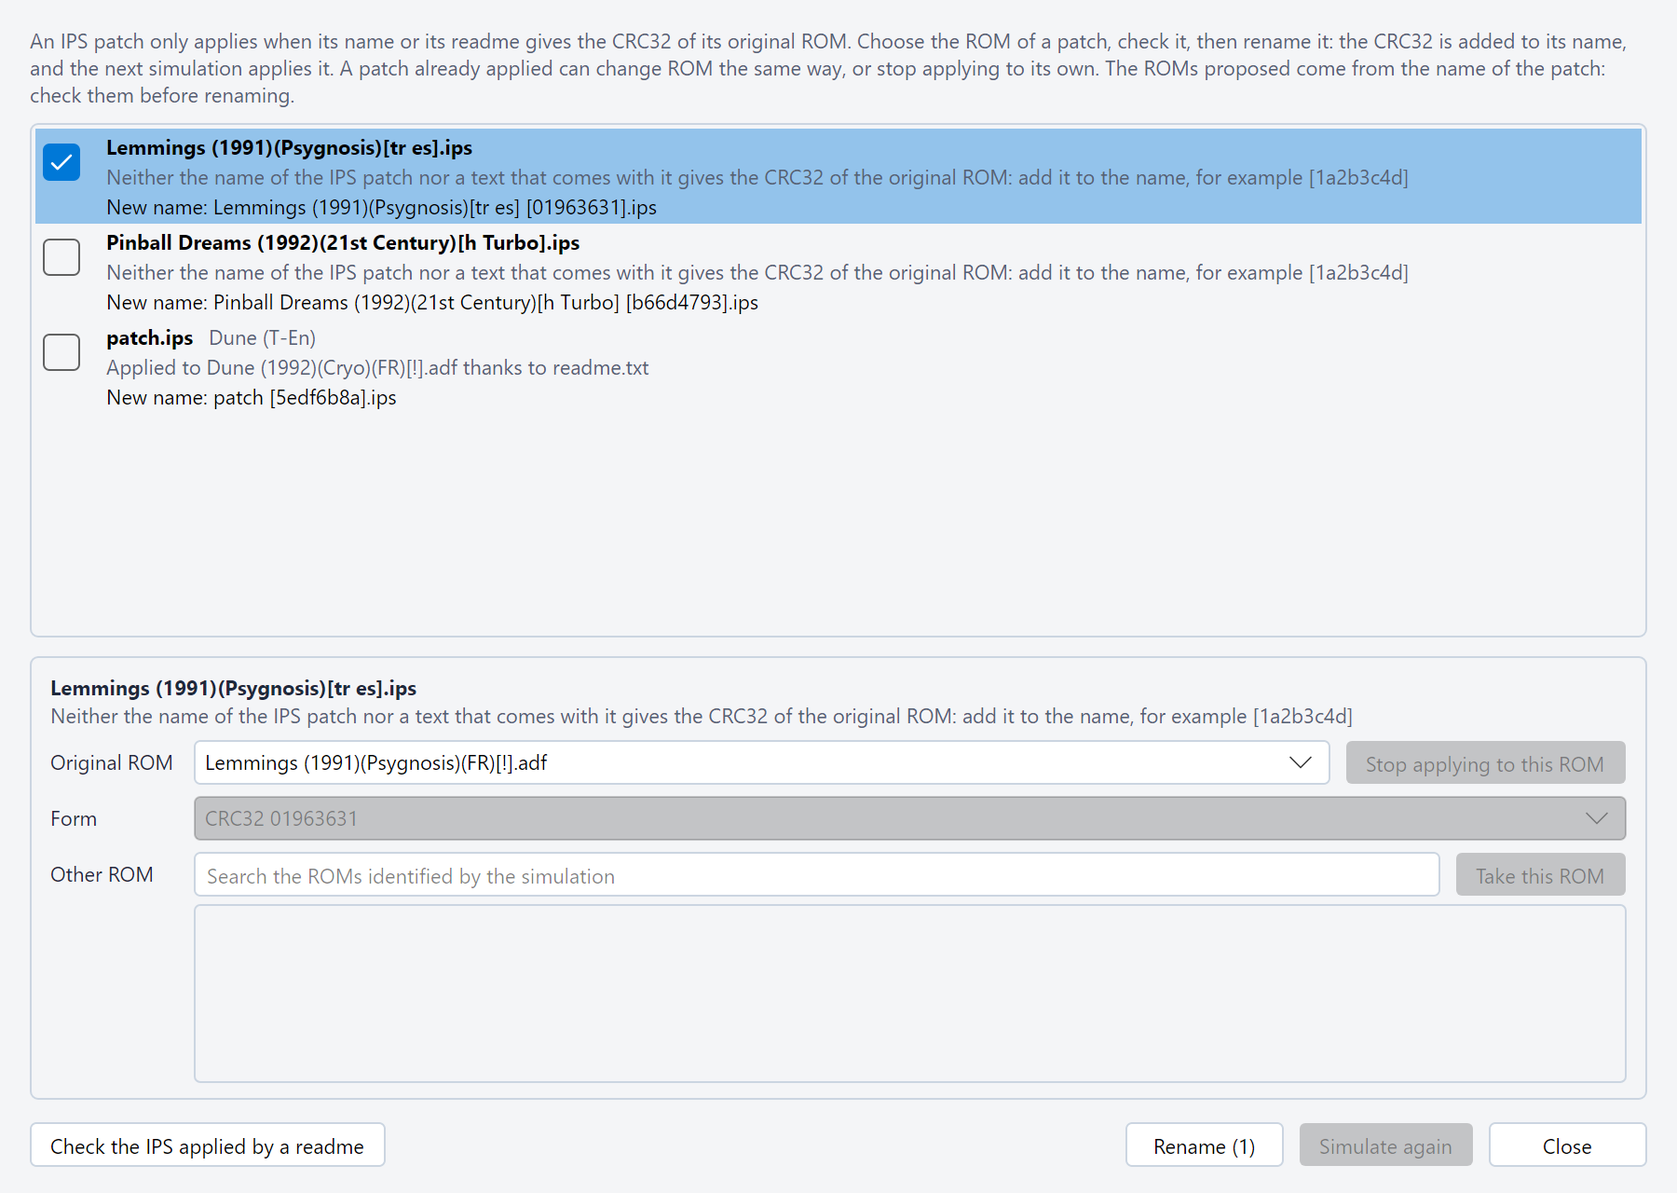
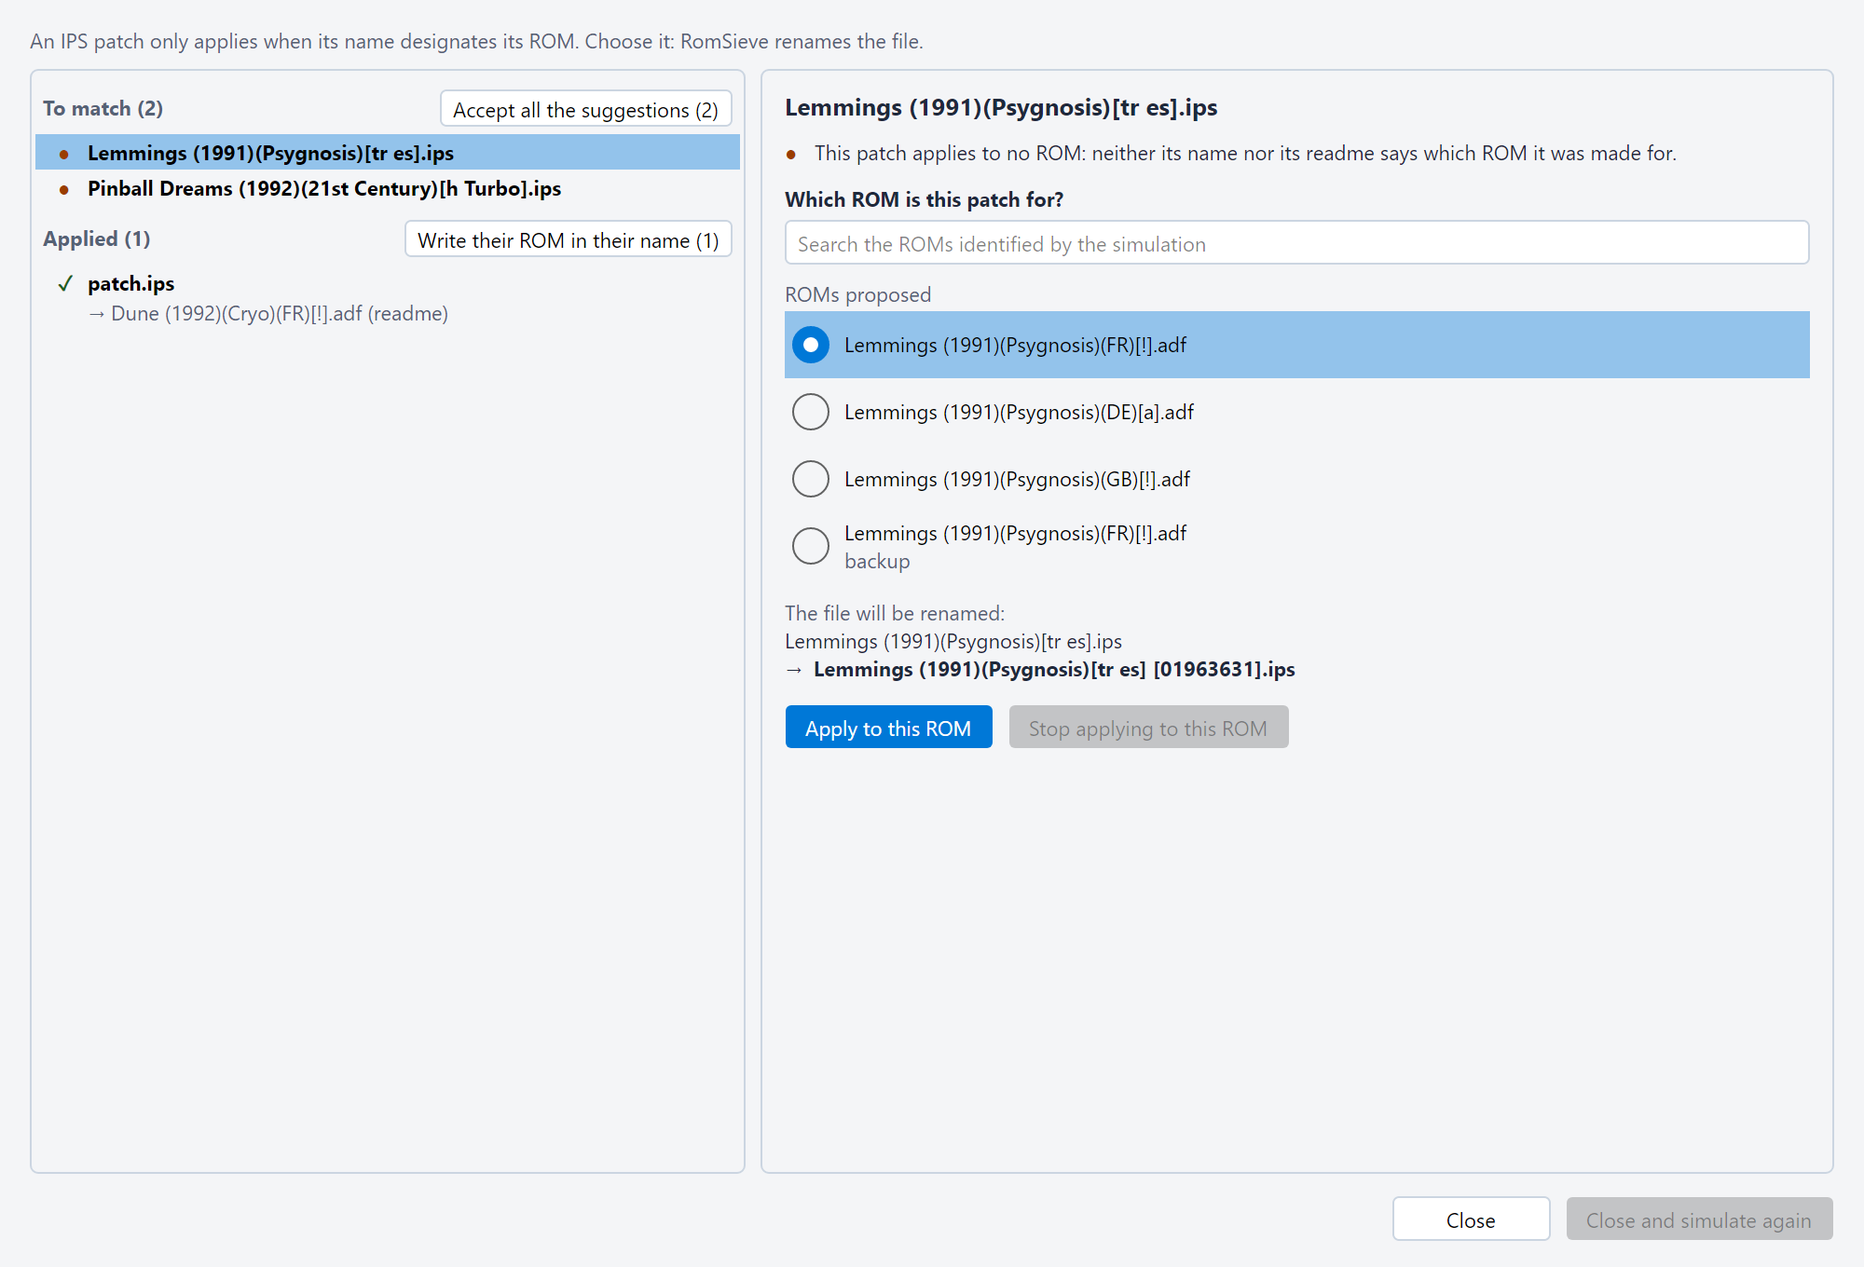
Describe the new patches window in the guide, with its groups, its direct actions and its summaries, and capture it again

diff --git a/docs/fr/patches.md b/docs/fr/patches.md
@@ -170,55 +170,68 @@ Sans DAT, les patchs ne sont pas lus : le journal le dit.
 
 La plupart des IPS téléchargés n'ont de CRC32 ni dans leur nom ni dans leur readme. Plutôt que de le chercher et de
 renommer le fichier à la main, ouvrez la fenêtre **Patchs** : après une simulation, cliquez sur « *n* patchs non
-appliqués » dans le bandeau des résultats (ou sur « *n* patchs à nommer », quand aucun patch n'est resté non appliqué
-mais que des IPS l'ont été grâce à leur readme).
+appliqués » dans le bandeau des résultats (ou sur « *n* patchs à nommer » ou « Voir les patchs », quand aucun patch n'est
+resté non appliqué).
 
 ![La fenêtre Patchs](../images/fr/patches_window.png)
 
-La fenêtre liste les patchs non appliqués, puis les IPS appliqués grâce à leur readme, puis ceux appliqués d'après leur
-nom (voir [Changer la ROM du patch](#changer-la-rom-du-patch)). Pour un patch sélectionné :
+À gauche, les patchs sont groupés par état :
 
-* **ROM d'origine** propose les ROMs identifiées dont le nom ou le titre commence le nom du patch, ou celui de son
-  archive, ou celui de son dossier quand ce dossier ne contient que lui (`Traduction CT/patch.ips`). Les noms génériques
-  (`patch`, `fix`, `v1.1`…) ne comptent pas. La ROM entière passe avant le titre seul, puis la ROM que le tri écrit. Pour
-  un patch dont le nom ou le readme désigne plusieurs ROMs, ce sont ces ROMs.
-* **Autre ROM** cherche parmi toutes les ROMs identifiées par la simulation, quand aucune ROM proposée n'est la bonne : un
-  titre traduit (`Super Mario Frères.ips` pour `Super Mario Bros.`) ou abrégé n'en propose aucune. **Prendre cette ROM**
-  (ou un double clic) la choisit.
-* **Forme** choisit, pour une ROM à en-tête copieur, le CRC32 avec ou sans l'en-tête. Un IPS ne dit pas pour laquelle il
-  a été fait : son readme le dit en général. La liste est grisée quand la ROM n'a qu'une forme.
+* **À associer** (●) : les IPS qui ne s'appliquent à aucune ROM, et qu'un nom réparerait ;
+* **Appliqués** (✓) : les IPS appliqués d'après leur nom, ou grâce à leur readme (mention « readme »), chacun suivi de sa
+  ROM (« → *ROM* ») ;
+* **Non réparables** (✗) : un UPS ou un BPS dont la ROM manque, un patch illisible… Le détail en donne la raison.
 
-Une ROM proposée n'est jamais prise d'office : cochez chaque patch à renommer, vérifiez le **Nouveau nom** affiché, puis
-cliquez sur **Renommer**. Le CRC32 s'ajoute avant l'extension (`Jeu (T-Fr).ips` devient `Jeu (T-Fr) [47e70e08].ips`),
-la ligne dit ce qu'il en est, et le journal le note. **Relancer la simulation** ferme la fenêtre et relance la simulation,
-qui applique les patchs renommés. Le CRC32 ajouté n'apparaît pas dans le nom de la version patchée (voir
+À droite, le détail du patch sélectionné dit en clair où il en est, puis demande **Pour quelle ROM est ce patch ?** :
+
+* **ROMs proposées** : les ROMs identifiées dont le nom ou le titre commence le nom du patch, ou celui de son archive, ou
+  celui de son dossier quand ce dossier ne contient que lui (`Traduction CT/patch.ips`). Les noms génériques (`patch`,
+  `fix`, `v1.1`…) ne comptent pas. La ROM entière passe avant le titre seul, puis la ROM que le tri écrit. Pour un patch
+  dont le nom ou le readme désigne plusieurs ROMs, ce sont ces ROMs ; pour un patch appliqué, la ROM à laquelle il l'est.
+  Sous chaque ROM, son dossier dans la source distingue deux fichiers du même nom. La première est choisie, mais jamais
+  appliquée sans votre clic.
+* La **recherche**, au-dessus, cherche parmi toutes les ROMs identifiées par la simulation, quand aucune ROM proposée
+  n'est la bonne : un titre traduit (`Super Mario Frères.ips` pour `Super Mario Bros.`) ou abrégé n'en propose aucune.
+  Tous les mots, dans n'importe quel ordre. Une ROM trouvée (clic, ou Entrée pour la première) rejoint les ROMs
+  proposées et devient le choix. Ctrl+F mène à la recherche.
+* **Forme** n'apparaît que pour une ROM à en-tête copieur (NES, Super Nintendo, Lynx) : le CRC32 avec ou sans l'en-tête.
+  Un IPS ne dit pas pour laquelle il a été fait : son readme le dit en général.
+
+**Le fichier sera renommé** montre le nom avant et après. **Appliquer à cette ROM** renomme alors le patch : le CRC32
+s'ajoute avant l'extension (`Jeu (T-Fr).ips` devient `Jeu (T-Fr) [47e70e08].ips`), le patch passe dans **Appliqués**,
+et le journal le note. **Annuler** lui rend son ancien nom ; après plusieurs renommages, chacun s'annule à son tour,
+tant que la fenêtre est ouverte. La touche Entrée ne renomme jamais rien.
+
+Le pied compte les patchs modifiés. **Fermer et relancer la simulation** ferme la fenêtre et relance la simulation, qui
+applique les patchs renommés. Le CRC32 ajouté n'apparaît pas dans le nom de la version patchée (voir
 [Choix du nom](#choix-du-nom)).
 
-* **Cocher les IPS appliqués par un readme** coche les IPS que la simulation a déjà appliqués grâce à leur readme :
-  écrire leur CRC32 dans leur nom les fait aussi appliquer par d'autres outils, comme igir.
+* **Accepter toutes les suggestions (*n*)**, sur le titre du groupe **À associer**, montre la ROM choisie pour chaque
+  patch : rien n'y est coché d'avance. Cochez ceux à renommer (ou **Tout cocher**), puis **Appliquer (*n*)** ;
+  **Retour** revient au détail sans rien renommer.
+* **Écrire leur ROM dans leur nom (*n*)**, sur le titre du groupe **Appliqués**, fait de même pour les IPS appliqués
+  grâce à leur readme : écrire leur CRC32 dans leur nom les fait aussi appliquer par d'autres outils, comme igir. Pour un
+  seul de ces patchs, le bouton du détail s'appelle **Écrire la ROM dans le nom**.
 * Un patch rangé dans une **archive** n'est jamais renommé, puisqu'une archive n'est jamais modifiée : la fenêtre donne le
   CRC32 de la ROM choisie, et il faut extraire le patch pour écrire ce CRC32 dans son nom.
-* Un UPS, un BPS, ou un IPS non appliqué dont le nom donne déjà un CRC32 ne se choisit pas : un CRC32 dans son nom ne le
-  réparerait pas.
-* Rien n'est écrasé : un nom déjà pris laisse le patch tel quel, et sa ligne le dit. Le renommage n'est pas inscrit au
-  journal des tris, et **Annuler le dernier tri** ne le défait pas : il se défait à la main, ou dans la fenêtre (voir
-  [Changer la ROM du patch](#changer-la-rom-du-patch)).
+* Rien n'est écrasé : un nom déjà pris laisse le patch tel quel, et le détail le dit. Le renommage n'est pas inscrit au
+  journal des tris, et **Annuler le dernier tri** ne le défait pas : il se défait par **Annuler** dans la fenêtre, ou à
+  la main.
 
 ## Changer la ROM du patch
 
 Un IPS dont le nom donne le CRC32 d'une ROM s'applique à cette ROM à chaque simulation : RomSieve ne garde aucun choix
 en mémoire, il relit le nom du patch. Si la version patchée ne fonctionne pas, parce que le patch était fait pour une
-autre ROM, la fenêtre **Patchs** liste aussi, après les autres, les IPS appliqués d'après leur nom (ceux du disque : un
-patch rangé dans une archive ne se renomme pas). Elle s'ouvre par le lien « Voir les patchs » du bandeau, quand aucun
-patch n'est resté non appliqué, ou par **Changer la ROM de ce patch…** dans le menu contextuel d'une version patchée du
-tableau, qui sélectionne son patch.
+autre ROM, retrouvez-le dans le groupe **Appliqués** de la fenêtre **Patchs** (seuls ceux du disque : un patch rangé dans
+une archive ne se renomme pas). Elle s'ouvre aussi par **Changer la ROM de ce patch…** dans le menu contextuel d'une
+version patchée du tableau, qui sélectionne son patch.
 
-* Pour l'appliquer à **une autre ROM**, choisissez-la comme pour un patch non appliqué (**Autre ROM**, puis **Prendre
-  cette ROM**), cochez le patch et cliquez sur **Renommer** : le CRC32 de la nouvelle ROM remplace celui du nom
-  (`Jeu (T-Fr) [47e70e08].ips` devient `Jeu (T-Fr) [1a2b3c4d].ips`).
+* Pour l'appliquer à **une autre ROM**, choisissez-la (dans la recherche si elle n'est pas proposée), puis cliquez sur
+  **Appliquer à cette ROM** : le CRC32 de la nouvelle ROM remplace celui du nom (`Jeu (T-Fr) [47e70e08].ips` devient
+  `Jeu (T-Fr) [1a2b3c4d].ips`). Tant que sa ROM actuelle est choisie, le bouton est grisé.
 * Pour qu'il **ne s'applique plus**, cliquez sur **Ne plus appliquer à cette ROM** : RomSieve retire du nom du patch ce
-  qui désigne sa ROM (`Jeu (T-Fr) [47e70e08].ips` redevient `Jeu (T-Fr).ips`). La simulation suivante ne l'applique
-  plus, et vous le propose de nouveau parmi les patchs non appliqués, avec les ROMs que suggère son nom.
+  qui désigne sa ROM (`Jeu (T-Fr) [47e70e08].ips` redevient `Jeu (T-Fr).ips`), et le patch revient dans **À associer**.
+  La simulation suivante ne l'applique plus, et vous le propose de nouveau, avec les ROMs que suggère son nom.
 
 Un IPS appliqué grâce à son readme se change de ROM de la même façon (le CRC32 écrit dans son nom l'emporte sur son
 readme), mais ne peut pas cesser de s'appliquer : son readme désignerait de nouveau sa ROM. La version patchée qu'un tri

diff --git a/docs/en/patches.md b/docs/en/patches.md
@@ -167,53 +167,67 @@ Without a DAT, the patches are not read: the log says so.
 
 Most downloaded IPS have a CRC32 neither in their name nor in their readme. Rather than looking it up and renaming the
 file by hand, open the **Patches** window: after a simulation, click "*n* patches not applied" in the banner of the
-results (or "*n* patches to name", when no patch was left out but some IPS were applied thanks to their readme).
+results (or "*n* patches to name" or "View the patches", when no patch was left out).
 
 ![The Patches window](../images/patches_window.png)
 
-The window lists the patches not applied, then the IPS applied thanks to their readme, then those applied from their
-name (see [Changing the ROM of a patch](#changing-the-rom-of-a-patch)). For the patch selected:
+On the left, the patches are grouped by state:
 
-* **Original ROM** proposes the identified ROMs whose name or title starts the name of the patch, or that of its
-  archive, or that of its folder when the folder holds it alone (`CT Translation/patch.ips`). Generic names (`patch`,
-  `fix`, `v1.1`…) do not count. The whole name comes before the title alone, then the ROM the sort writes. For a patch
-  whose name or readme designates several ROMs, those ROMs.
-* **Other ROM** searches all the ROMs identified by the simulation, when no ROM proposed is the right one: a translated
-  (`Super Mario Frères.ips` for `Super Mario Bros.`) or shortened title proposes none. **Take this ROM** (or a double
-  click) chooses it.
-* **Form** chooses, for a ROM with a copier header, the CRC32 with or without the header. An IPS does not tell which one
-  it was made for: its readme usually does. The list is greyed out when the ROM has a single form.
+* **To match** (●): the IPS that apply to no ROM, and that a name would fix;
+* **Applied** (✓): the IPS applied from their name, or thanks to their readme (marked "readme"), each followed by its ROM
+  ("→ *ROM*");
+* **Cannot be fixed** (✗): a UPS or a BPS whose ROM is missing, a patch that cannot be read… The detail gives the reason.
 
-A ROM proposed is never taken on its own: check each patch to rename, look at the **New name** shown, then click
-**Rename**. The CRC32 is added before the extension (`Game (T-Fr).ips` becomes `Game (T-Fr) [47e70e08].ips`), the row
-says what became of it, and the log records it. **Simulate again** closes the window and runs the simulation again,
+On the right, the detail of the patch selected says in plain words where it stands, then asks **Which ROM is this patch
+for?**:
+
+* **ROMs proposed**: the identified ROMs whose name or title starts the name of the patch, or that of its archive, or
+  that of its folder when the folder holds it alone (`CT Translation/patch.ips`). Generic names (`patch`, `fix`, `v1.1`…)
+  do not count. The whole name comes before the title alone, then the ROM the sort writes. For a patch whose name or
+  readme designates several ROMs, those ROMs; for a patch applied, the ROM it is applied to. Under each ROM, its folder
+  in the source tells two files of the same name apart. The first one is chosen, but never applied without your click.
+* The **search**, above, looks among all the ROMs identified by the simulation, when no ROM proposed is the right one: a
+  translated (`Super Mario Frères.ips` for `Super Mario Bros.`) or shortened title proposes none. All the words, in any
+  order. A ROM found (a click, or Enter for the first one) joins the ROMs proposed and becomes the choice. Ctrl+F goes
+  to the search.
+* **Form** only shows for a ROM with a copier header (NES, Super Nintendo, Lynx): the CRC32 with or without the header.
+  An IPS does not tell which one it was made for: its readme usually does.
+
+**The file will be renamed** shows the name before and after. **Apply to this ROM** then renames the patch: the CRC32
+is added before the extension (`Game (T-Fr).ips` becomes `Game (T-Fr) [47e70e08].ips`), the patch moves to
+**Applied**, and the log records it. **Undo** gives it back its old name; after several renamings, each is undone in
+turn, as long as the window is open. The Enter key never renames anything.
+
+The footer counts the patches modified. **Close and simulate again** closes the window and runs the simulation again,
 which applies the patches renamed. The CRC32 added does not appear in the name of the patched version (see
 [Name of the patched version](#name-of-the-patched-version)).
 
-* **Check the IPS applied by a readme** checks the IPS the simulation already applied thanks to their readme: writing
-  their CRC32 in their name makes other tools, such as igir, apply them too.
+* **Accept all the suggestions (*n*)**, on the title of the **To match** group, shows the ROM chosen for each patch:
+  nothing is checked beforehand. Check those to rename (or **Check all**), then **Apply (*n*)**; **Back** returns to the
+  detail without renaming anything.
+* **Write their ROM in their name (*n*)**, on the title of the **Applied** group, does the same for the IPS applied
+  thanks to their readme: writing their CRC32 in their name makes other tools, such as igir, apply them too. For a
+  single one of these patches, the button of the detail is called **Write the ROM in the name**.
 * A patch stored in an **archive** is never renamed, since an archive is never modified: the window gives the CRC32 of
   the ROM chosen, and the patch has to be extracted to write that CRC32 in its name.
-* A UPS, a BPS, or an IPS not applied whose name already gives a CRC32 cannot be chosen for: a CRC32 in its name would
-  not fix it.
-* Nothing is overwritten: a name already taken leaves the patch as it was, and its row says so. Renaming is not recorded
-  in the journal of the sorts, and **Undo Last Sort** does not undo it: it is undone by hand, or in the window (see
-  [Changing the ROM of a patch](#changing-the-rom-of-a-patch)).
+* Nothing is overwritten: a name already taken leaves the patch as it was, and the detail says so. Renaming is not
+  recorded in the journal of the sorts, and **Undo Last Sort** does not undo it: it is undone by **Undo** in the window,
+  or by hand.
 
 ## Changing the ROM of a patch
 
 An IPS whose name gives the CRC32 of a ROM applies to that ROM at each simulation: RomSieve keeps no choice in memory, it
 reads the name of the patch again. If the patched version does not work, because the patch was made for another ROM,
-the **Patches** window also lists, after the others, the IPS applied from their name (those on the disk: a patch stored
-in an archive is not renamed). It opens from the "View the patches" link of the banner, when no patch was left out, or
-from **Change the ROM of this patch…** in the context menu of a patched version of the table, which selects its patch.
+find it in the **Applied** group of the **Patches** window (only those on the disk: a patch stored in an archive is not
+renamed). The window also opens from **Change the ROM of this patch…** in the context menu of a patched version of the
+table, which selects its patch.
 
-* To apply it to **another ROM**, choose it as for a patch not applied (**Other ROM**, then **Take this ROM**), check
-  the patch and click **Rename**: the CRC32 of the new ROM replaces the one of the name (`Game (T-Fr) [47e70e08].ips`
-  becomes `Game (T-Fr) [1a2b3c4d].ips`).
+* To apply it to **another ROM**, choose it (in the search if it is not proposed), then click **Apply to this ROM**: the
+  CRC32 of the new ROM replaces the one of the name (`Game (T-Fr) [47e70e08].ips` becomes `Game (T-Fr) [1a2b3c4d].ips`).
+  While its current ROM is chosen, the button is greyed out.
 * To **stop applying** it, click **Stop applying to this ROM**: RomSieve removes from the name of the patch what
-  designates its ROM (`Game (T-Fr) [47e70e08].ips` becomes `Game (T-Fr).ips` again). The next simulation no longer
-  applies it, and proposes it to you again among the patches not applied, with the ROMs its name suggests.
+  designates its ROM (`Game (T-Fr) [47e70e08].ips` becomes `Game (T-Fr).ips` again), and the patch goes back to **To
+  match**. The next simulation no longer applies it, and proposes it to you again, with the ROMs its name suggests.
 
 An IPS applied thanks to its readme changes ROM the same way (the CRC32 written in its name wins over its readme), but
 cannot stop applying: its readme would designate its ROM again. The patched version a sort already wrote in a

diff --git a/docs/fr/safety-and-undo.md b/docs/fr/safety-and-undo.md
@@ -21,9 +21,10 @@ RomSieve manipule des collections de plusieurs téraoctets. Il est conçu pour q
   font exprès certaines archives trouvées sur Internet. Un tel fichier est en erreur dès la simulation, avec la raison
   « Non écrit : le nom … est dangereux ou invalide », et rien n'est écrit pour lui ni pour les autres fichiers de son
   jeu ; les autres fichiers sont triés comme d'habitude. Chaque cible est encore vérifiée juste avant d'être écrite.
-  Seule exception, hors de tout tri : **Renommer**, dans la fenêtre **Patchs**, ajoute un CRC32 au nom des IPS que vous
-  cochez dans le dossier des patchs (voir [Nommer un IPS](patches.md#nommer-un-ips)). Rien d'autre n'y change : ni le
-  contenu des patchs, ni les archives, ni un fichier déjà présent.
+  Seule exception, hors de tout tri : la fenêtre **Patchs** renomme les IPS du dossier des patchs sur lesquels vous
+  cliquez **Appliquer à cette ROM** ou **Ne plus appliquer à cette ROM**, et **Annuler** leur rend leur ancien nom (voir
+  [Nommer un IPS](patches.md#nommer-un-ips)). Rien d'autre n'y change : ni le contenu des patchs, ni les archives, ni un
+  fichier déjà présent.
 * **Une purge ne supprime rien** (voir ci-dessous).
 * **Un tri interrompu ne laisse aucun fichier partiel** : **Arrêter** (le bouton **Simuler (Dry-Run)** pendant une
   exécution) supprime le fichier en cours d'écriture, même au milieu d'une grosse copie. Un fichier s'écrit sous un nom

diff --git a/docs/en/safety-and-undo.md b/docs/en/safety-and-undo.md
@@ -18,9 +18,10 @@ RomSieve handles collections of several terabytes. It is designed so that a wron
   found on the Internet are crafted to do. Such a file is in error from the simulation on, with the reason "Not written:
   the name … is unsafe or invalid", and nothing is written for it nor for the other files of its game; the other files
   are sorted as usual. Every target is checked once more just before it is written. The only exception, out of any
-  sort: **Rename**, in the **Patches** window, adds a CRC32 to the name of the IPS you check in the folder of the
-  patches (see [Naming an IPS](patches.md#naming-an-ips)). Nothing else changes there: neither the content of the
-  patches, nor the archives, nor a file already there.
+  sort: the **Patches** window renames the IPS of the folder of the patches on which you click **Apply to this ROM** or
+  **Stop applying to this ROM**, and **Undo** gives them back their old name (see
+  [Naming an IPS](patches.md#naming-an-ips)). Nothing else changes there: neither the content of the patches, nor the
+  archives, nor a file already there.
 * **A purge deletes nothing** (see below).
 * **An interrupted sort leaves no partial file**: **Stop** (the **Simulate (Dry-Run)** button while a run is in
   progress) removes the file being written, even in the middle of a large copy. A file is written under a temporary
